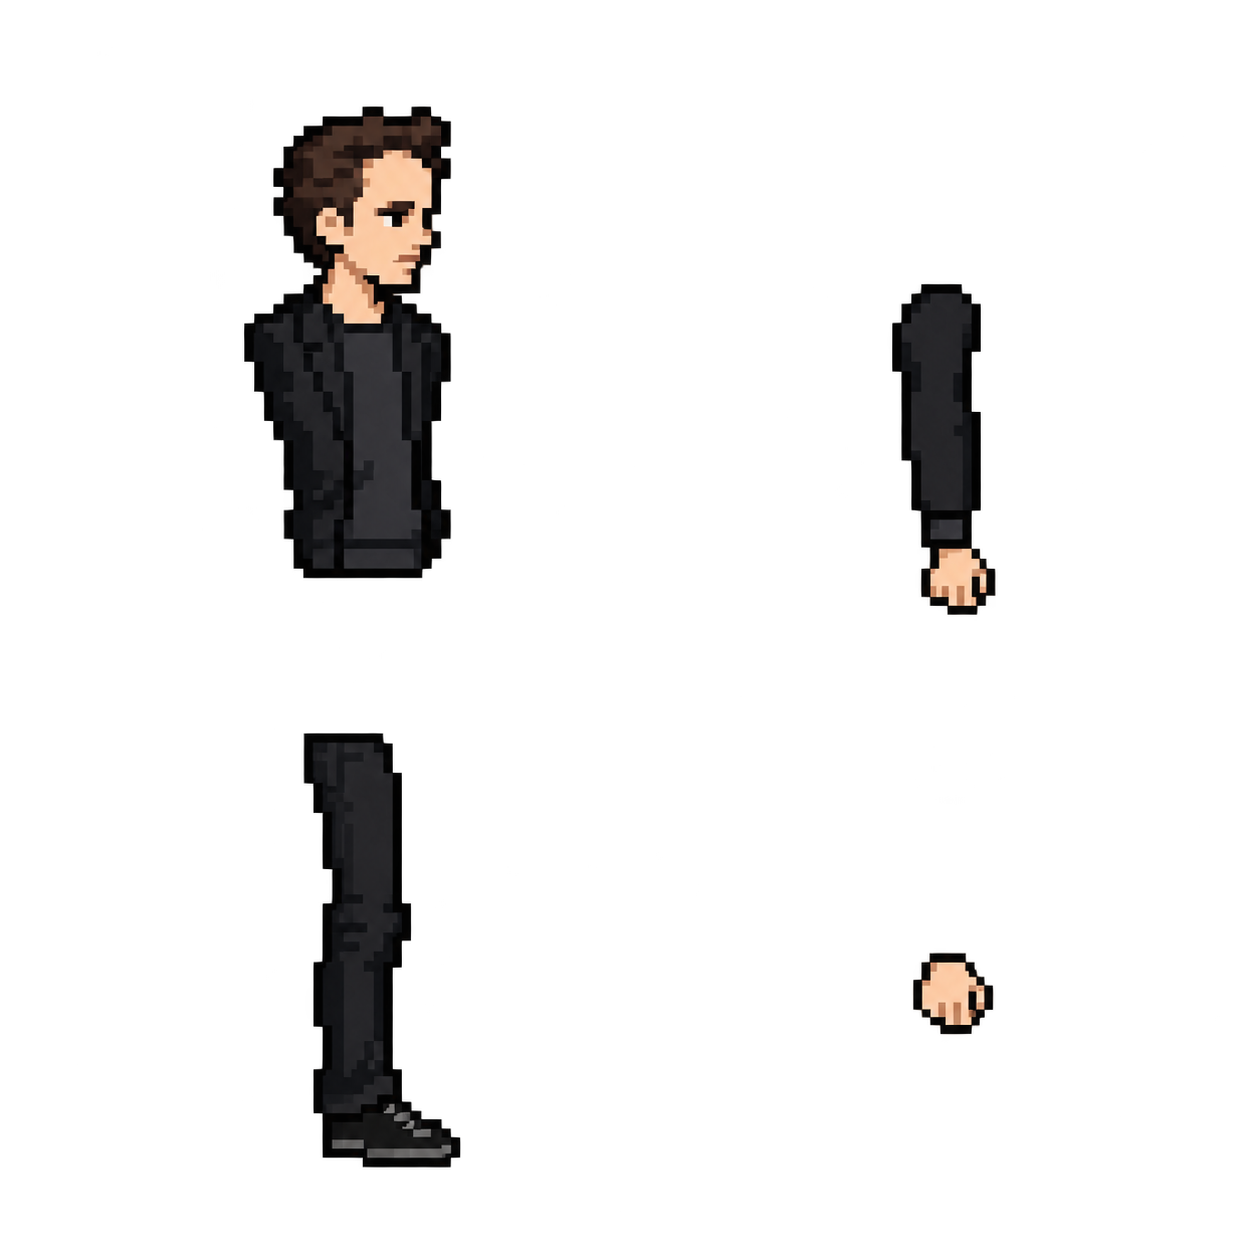
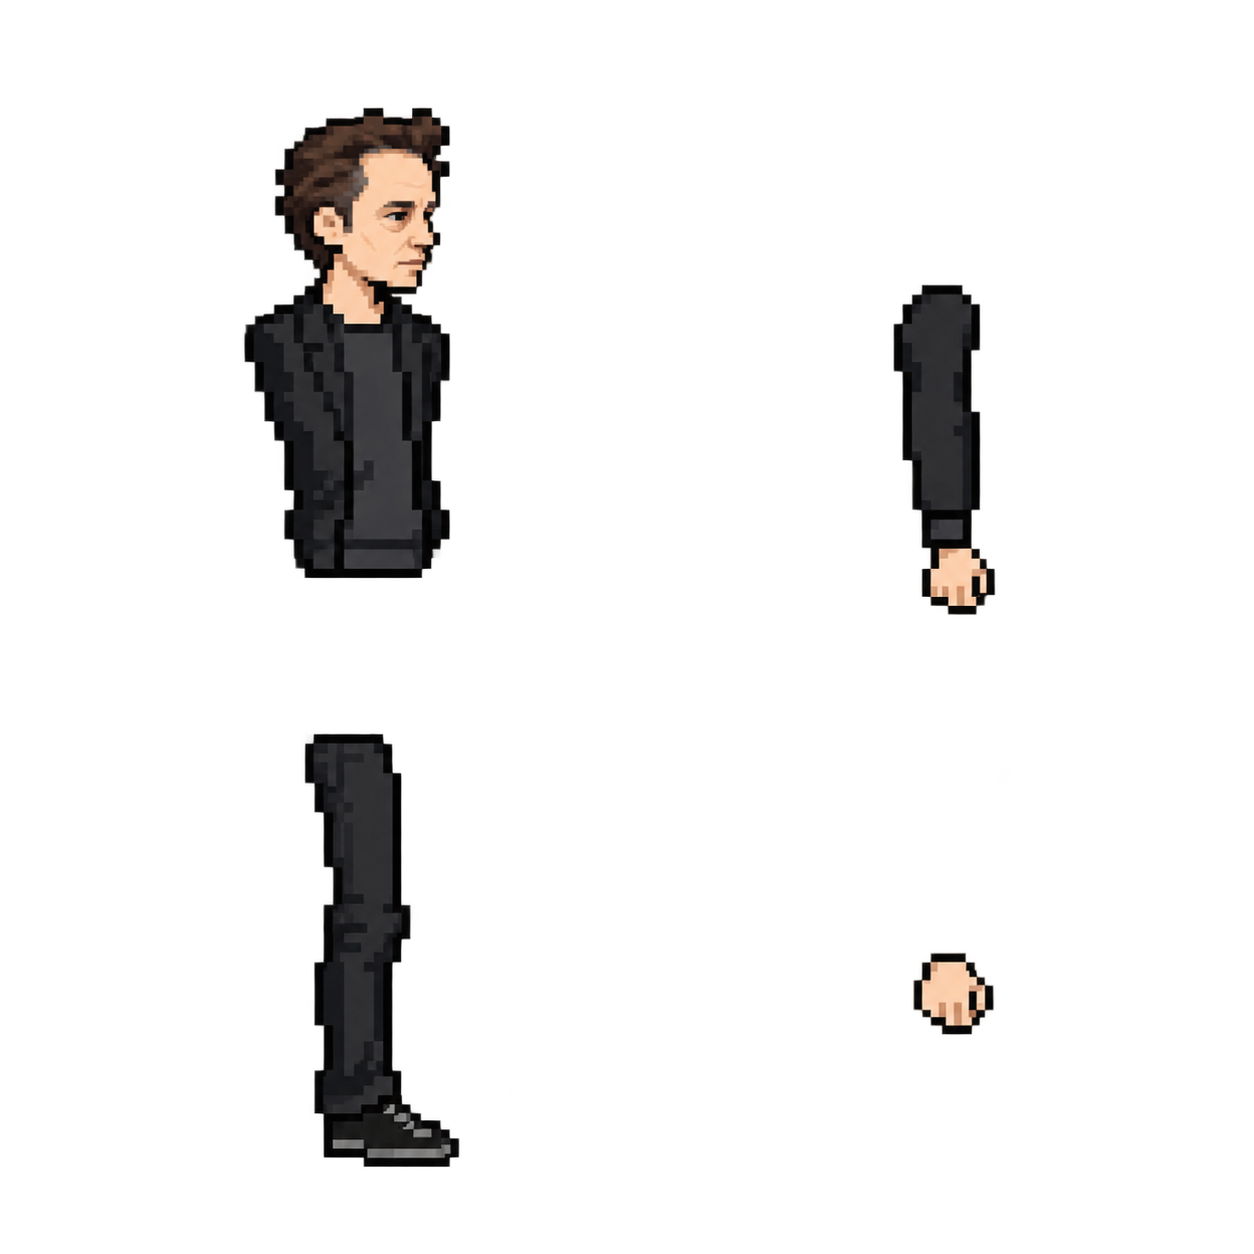
Align roster portrait scale and refine Elon and Darrius appearance

diff --git a/client/content/character-presentation.js b/client/content/character-presentation.js
@@ -9,9 +9,26 @@ export const BODY_VARIANTS = {
 
 export const BODY_PORTRAIT_SHEETS = {
   sama: "assets/chars/sama/monastic_infra/portraits/sheet.png",
-  darrius: "assets/chars/darrius/legal_department_midnight/portraits/sheet.png",
+  darrius: "assets/chars/darrius/legal_department_midnight/portraits/sheet.png?v=appearance-20261023b",
   demis: "assets/chars/demis/chalk_and_static/portraits/sheet.png",
   mark: "assets/chars/mark/wellness_berserker/portraits/sheet.png",
-  jensen: "assets/chars/jensen/silicon_sovereign/portraits/sheet.png",
-  elon: "assets/chars/elon/orbital_showman/portraits/sheet.png",
+  jensen: "assets/chars/jensen/silicon_sovereign/portraits/sheet.png?v=appearance-20261023b",
+  elon: "assets/chars/elon/orbital_showman/portraits/sheet.png?v=appearance-20261023b",
 };
+
+// These generated busts have more top padding than the original 96px art.
+// A measured source crop aligns crown, chin and shoulders; body cell 3 stays
+// untouched. The same crop is consumed by Canvas and CSS portrait users.
+const INSET_BUST = [0.045, 0.08, 0.91, 0.91];
+export function portraitCellCrop(body, cell=0) {
+  return cell<3 && (body==='jensen'||body==='elon') ? INSET_BUST : [0,0,1,1];
+}
+export function portraitSourceRect(body, cell, width, height) {
+  const [x,y,w,h]=portraitCellCrop(body,cell),cw=width/2,ch=height/2;
+  return [(cell%2+x)*cw,(Math.floor(cell/2)+y)*ch,w*cw,h*ch];
+}
+export function portraitBackgroundStyle(body, cell=3) {
+  const url=BODY_PORTRAIT_SHEETS[body];if(!url)return '';
+  const [x,y,w,h]=portraitCellCrop(body,cell);
+  return `background-image:url('${url}');background-size:${200/w}% ${200/h}%;background-position:${(cell%2+x)/(2-w)*100}% ${(Math.floor(cell/2)+y)/(2-h)*100}%`;
+}

diff --git a/client/home.css b/client/home.css
@@ -196,11 +196,18 @@ h1 span { font-weight: 400; }
 }
 
 .roster-avatar-sama { background-image: url('/assets/chars/sama/monastic_infra/portraits/sheet.png'); }
-.roster-avatar-darrius { background-image: url('/assets/chars/darrius/legal_department_midnight/portraits/sheet.png'); }
+.roster-avatar-darrius { background-image: url('/assets/chars/darrius/legal_department_midnight/portraits/sheet.png?v=appearance-20261023b'); }
 .roster-avatar-demis { background-image: url('/assets/chars/demis/chalk_and_static/portraits/sheet.png'); }
 .roster-avatar-mark { background-image: url('/assets/chars/mark/wellness_berserker/portraits/sheet.png'); }
-.roster-avatar-jensen { background-image: url('/assets/chars/jensen/silicon_sovereign/portraits/sheet.png'); }
-.roster-avatar-elon { background-image: url('/assets/chars/elon/orbital_showman/portraits/sheet.png'); }
+.roster-avatar-jensen { background-image: url('/assets/chars/jensen/silicon_sovereign/portraits/sheet.png?v=appearance-20261023b'); }
+.roster-avatar-elon { background-image: url('/assets/chars/elon/orbital_showman/portraits/sheet.png?v=appearance-20261023b'); }
+
+/* Same measured neutral-bust crop as portraitCellCrop in character-presentation. */
+.roster-avatar-jensen,
+.roster-avatar-elon {
+  background-size: 219.7802197802198% 219.7802197802198%;
+  background-position: 4.128440366972477% 7.339449541284404%;
+}
 
 .roster-name {
   font-size: 13px;

diff --git a/client/render/canvas2d.js b/client/render/canvas2d.js
@@ -1,4 +1,4 @@
-import { BODY_PORTRAIT_SHEETS } from "../content/character-presentation.js";
+import { BODY_PORTRAIT_SHEETS, portraitSourceRect } from "../content/character-presentation.js";
 import { drawStageScenery } from "./stage-art.js";
 import { drawGoalHoldRing } from "./goal-progress.js";
 import { imageState, loadImage } from "./image-assets.js";
@@ -953,10 +953,9 @@ function drawHudPortrait(ctx, side, fighter, frame, x, y, accent) {
     // Generated sheets keep four equal cells at their original resolution.
     const cellW=img.naturalWidth ? img.naturalWidth/2 : state.kit.cellW;
     const cellH=img.naturalHeight ? img.naturalHeight/2 : state.kit.cellH;
-    const sx = (idx % 2) * cellW;
-    const sy = Math.floor(idx / 2) * cellH;
+    const [sx,sy,sw,sh]=portraitSourceRect(body,idx,cellW*2,cellH*2);
     ctx.imageSmoothingEnabled = false;
-    ctx.drawImage(img, sx, sy, cellW, cellH, x, y, size, size);
+    ctx.drawImage(img, sx, sy, sw, sh, x, y, size, size);
   } else {
     ctx.fillStyle = accent;
     ctx.globalAlpha = 0.18;

diff --git a/client/modes/spectate.js b/client/modes/spectate.js
@@ -1493,8 +1493,8 @@ function drawCountdownPortrait(side, x, y, w, h, meta) {
   if (img) {
     ctx.imageSmoothingEnabled = false;
     const cell = kit.cell ?? 0;
-    const cellW = kit.cellW ?? img.width;
-    const cellH = kit.cellH ?? img.height;
+    const cellW = kit.cols ? img.width / kit.cols : kit.cellW ?? img.width;
+    const cellH = kit.rows ? img.height / kit.rows : kit.cellH ?? img.height;
     const cols = Math.max(1, Math.floor(img.width / cellW));
     const sx = (cell % cols) * cellW;
     const sy = Math.floor(cell / cols) * cellH;
@@ -1527,8 +1527,8 @@ function countdownPortraitKit(meta, side) {
   return {
     url: BODY_PORTRAIT_SHEETS[body] ?? BODY_PORTRAIT_SHEETS[fallbackCosmeticsForSide(side).body],
     cell: 3,
-    cellW: 96,
-    cellH: 96,
+    cols: 2,
+    rows: 2,
     accentVar: accent.accentVar,
     fallback: accent.fallback,
   };

diff --git a/client/render/fighter-rig.js b/client/render/fighter-rig.js
@@ -8,6 +8,8 @@ export const FIGHTER_RIGS = {
   sama:{url:'assets/chars/rig-v1/sama.png', head:[270,107,180,212],torso:[247,310,203,267],upperArm:[893,284,100,164],forearm:[907,448,81,106],fist:[916,955,75,77],thigh:[303,734,100,215],shin:[315,949,143,217]},
 };
 for(const body of ['darrius','demis','mark','jensen','elon']) FIGHTER_RIGS[body]={...FIGHTER_RIGS.sama,url:`assets/chars/rig-v1/${body}.png`};
+// Hosting caches PNGs for an hour; revised art must not reuse the old URL.
+for(const body of ['darrius','elon'])FIGHTER_RIGS[body].url+='?v=appearance-20261023b';
 const images=new Map();
 const stateFor=(body)=>{const spec=FIGHTER_RIGS[body];if(!spec)return null;let state=images.get(body);if(!state){state=imageState(spec.url);images.set(body,state);}return {spec,img:loadImage(state)};};
 const clamp=(v,a,b)=>Math.max(a,Math.min(b,v));

diff --git a/docs/roster-appearance-corrections-2026-10-23.md b/docs/roster-appearance-corrections-2026-10-23.md
@@ -1,0 +1,75 @@
+# Roster appearance follow-up
+
+The user screenshot (`libfile_a87da953c95c81918b452aeebea4ea29`) was downloaded
+through the supported Library helper into this task's executor, verified locally
+as a readable 918x2048 PNG, and visually inspected. It shows the **home-page
+portrait cards**, where Jensen and Elon have smaller/inset heads and a different
+facial rendering style. It is not a screenshot of the battle sprite rig.
+
+The equal-scale baseline reproduces that finding on source main `0e6f0cb`.
+All home cards use the same outer viewport, but the portrait art has different
+internal framing. The first substantial opaque crown row occupied these
+fractions of the neutral portrait viewport:
+
+| Fighter | Before | After |
+| --- | ---: | ---: |
+| sama | 5.2% | 5.2% |
+| darrius | 6.3% | 6.5% |
+| demis | 7.3% | 7.3% |
+| mark | 1.0% | 1.0% |
+| jensen | 13.9% | 4.7% |
+| elon | 15.3% | 7.7% |
+
+Hair volume remains character-specific; the correction aligns framing without
+making every skull or hairstyle identical. Battle rigs retain their common
+56px standing height and 10x12px head footprint.
+
+## Changes
+
+- Jensen's portrait sheet was redrawn against the actual Sama portrait sheet
+  for pixel density, dark outline, flat shading and larger adult bust framing.
+- Elon's rig head and portraits now read as older and less idealized: softer
+  jaw, fuller cheeks, modest under-eye bags and subtle age lines. Dark swept
+  hair, clothing and restrained identity remain; no exaggerated caricature.
+- Darrius's rig and portraits now use very dark hair and a lighter neutral
+  complexion, including neck and hands. The existing `darrius` ID is preserved.
+- All five accepted PNGs are built-in imagegen edits of viewed references,
+  copied byte-for-byte at 1254x1254 with alpha. There was no raster recoloring,
+  resizing or compositing through Python or another image editor. Exact prompt
+  history is in `roster-appearance-prompts-2026-10-23.json`.
+- `portraitCellCrop` and `portraitSourceRect` align Jensen/Elon bust cells in
+  Canvas; equivalent home CSS is checked against the shared crop in the browser.
+  The crop is explicit source metadata, not a bitmap rewrite. Full-body cell 3
+  keeps its full cell. Watch countdown portraits now derive 2x2 cell sizes from
+  natural image dimensions instead of assuming a 192px sheet.
+- Revised PNG URLs are versioned because Hosting caches images for one hour.
+  This avoids showing the old faces after a future deployment. Hosting config
+  was not changed.
+
+No weapon assets, socket coordinates, bone lengths, animation timelines,
+simulation source or browser simulation bundle changed. The rig loader only
+received revised asset URLs. Original checkout edits were left untouched.
+
+## Verification and artifacts
+
+- 106 client tests pass, including 17 focused asset/portrait/rig checks.
+- Neutral portrait pixels now start within the top 10% of every common viewport.
+  CSS and Canvas address the same cropped pixels across all expression cells
+  and both 192px/1254px sheet resolutions.
+- The unchanged Darrius legacy body atlas still satisfies its original alpha
+  and dimension contract. The portrait is now an intentional imagegen redraw,
+  so its retired palette-only alpha digest was replaced by the shared framing
+  checks rather than retained as a misleading requirement.
+- All six rig file hashes match updated provenance.
+- Headless Chromium captures at desktop and mobile widths show all six at
+  identical portrait/body scales, both facings, all 24 weapon poses, wall-slide,
+  dive and KO. Actual Duel UI captures also pass with no page errors or
+  horizontal overflow; mobile emulation includes touch controls.
+
+Task artifacts: `appearance-before/`, `appearance-after/`, `appearance-motion/`,
+`appearance-game/`, `appearance-measurements.json`, `appearance-focused-tests.txt`,
+and `appearance-client-tests.txt`. The before/after review is packaged as
+`appearance-review.pdf` for Library delivery.
+
+This pass is source-only. No Firebase deployment, Firestore migration or live
+two-peer/physical-device qualification was performed.
